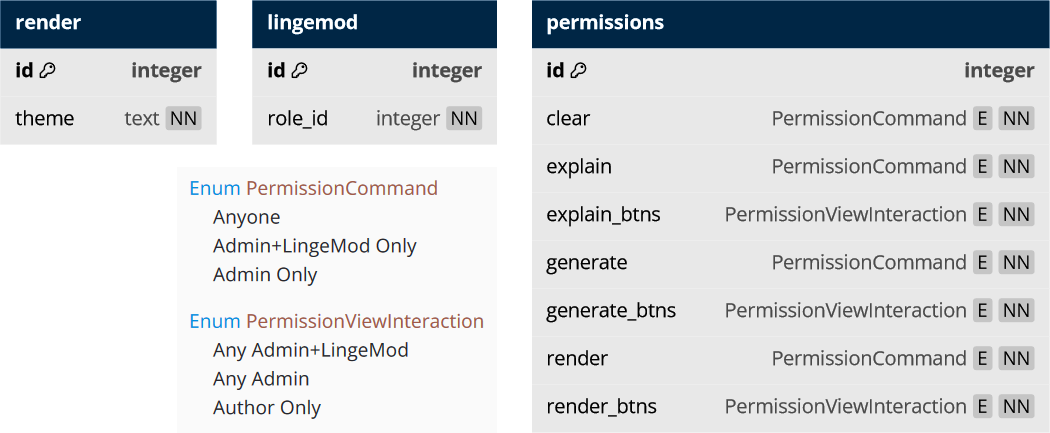
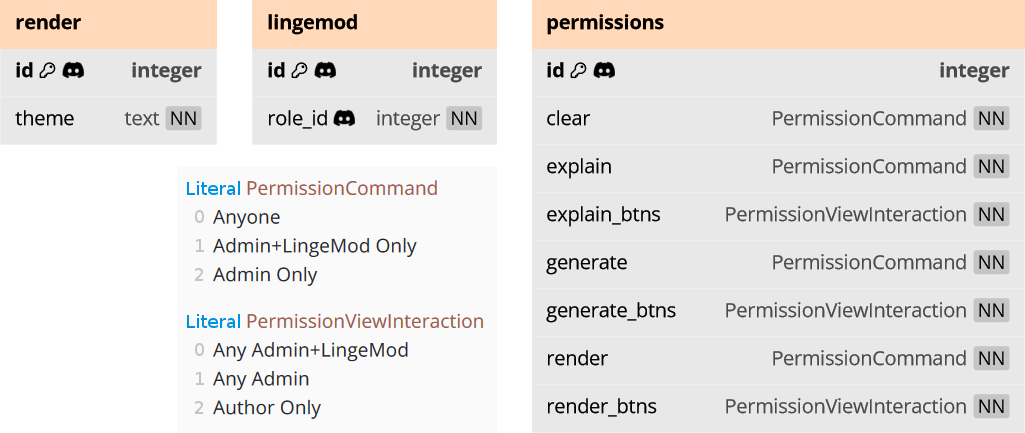
(thesis wip 27)

diff --git a/Thesis/document.tex b/Thesis/document.tex
@@ -73,12 +73,14 @@
 		\textbf{DMs} & Direct Messages, přímé zprávy \\
 		\textbf{HTML} & Hypertext Markup Language, značkovací jazyk \\
 		\textbf{HTTPS} & Hypertext Transfer Protocol Secure, protokol pro zabezpečenou komunikaci po počítačové síti \\
+		\textbf{ID} & identifikace, identifikátor \\
 		\textbf{JDA} & Java Discord API, knihovna pro tvorbu Discord botů v jazyce Java \\
 		\textbf{JSON} & JavaScript Object Notation, formát pro výměnu dat \\
 		\textbf{REST} & Representational State Transfer, architektura pro výměnu dat \\
 		\textbf{SDK} & Software Development Kit, sada nástrojů pro vývoj softwaru \\
-		\textbf{VoIP} & Voice over Internet Protocol, telefonie přes internetový protokol \\
+		\textbf{SQL} & Structured Query Language, dotazovací jazyk pro relační databáze \\
 		\textbf{UI} & User Interface, uživatelské rozhraní \\
+		\textbf{VoIP} & Voice over Internet Protocol, telefonie přes internetový protokol \\
 	\end{abbrList}
 	
 	% Začátek hlavního textu
@@ -297,7 +299,7 @@
 	
 	\chapter{Tvorba matematického Discord bota}
 	
-	Tato kapitola popisuje tvorbu matematického Discord bota, který se zaměřuje na výklad teorie a generování příkladů z lineární algebry. K výkladu této látky lze přistupovat s různou mírou obecnosti: Některé zdroje prezentují lineární algebru jako sadu postupů pro řešení určitých matematických úloh, jiné ji vykládají jako teorii vektorových prostorů a lineárních zobrazení \cite{lit_lingebra}. Bot byl vytvořen spíše pro prezentování informací z druhé zmíněné strany spektra, avšak jeho návrh obecně podporuje jakýkoliv typ matematických materiálů. Generované příklady se pak soustředí na základní výpočty s maticemi.
+	Tato kapitola popisuje tvorbu matematického Discord bota, který byl pojmenován \textit{LingeBot}. Zaměřuje se na výklad teorie a generování příkladů z lineární algebry. K výkladu této látky lze přistupovat s různou mírou obecnosti: Některé zdroje prezentují lineární algebru jako sadu postupů pro řešení určitých matematických úloh, jiné ji vykládají jako teorii vektorových prostorů a lineárních zobrazení \cite{lit_lingebra}. Bot byl vytvořen spíše pro prezentování informací z druhé zmíněné strany spektra, avšak jeho návrh obecně podporuje jakýkoliv typ matematických materiálů. Generované příklady se pak soustředí na základní výpočty s maticemi.
 	
 	Pro tvorbu bota byla zvolena knihovna discord.py zejména kvůli její početné komunitě a čitelnosti výsledného zdrojového kódu. Při volbě také hrála roli existence matematických knihoven pro jazyk Python (konkrétně Matplotlib, NumPy, SciPy a SymPy), které jsou zavedené a dobře zdokumentované.
 		
@@ -337,7 +339,7 @@
 	
 	\textit{Administrátor} je typ oprávnění, které je součástí Discordu a uživatelům ho lze přidělit v rámci role. Pokud není taková role nikomu přidělena, pak je majitel serveru jediným uživatelem s těmito právy (a zároveň jediným, kdo může tuto roli někomu dalšímu přidělit).
 	
-	Za ,,moderátora bota`` je považován uživatel, kterému byla (administrátorem) přidělena speciální role. Tato role je vytvořena navrhovaným botem po jeho připojení na daný server. Díky této roli lze uživatele bez administrátorských práv rozdělit na dvě skupiny a pouze jedné z nich povolit používání určitých příkazů.
+	Za ,,moderátora bota`` je považován uživatel, kterému byla administrátorem přidělena speciální role s názvem \textit{LingeMod}. Tato role je vytvořena navrhovaným botem po jeho připojení na nový server. Díky moderátorské roli lze uživatele bez administrátorských práv rozdělit na dvě skupiny a pouze jedné z nich povolit používání určitých příkazů.
 	
 	Nastavení může vypadat např. následovně: Kdokoliv může vykreslovat matematické výrazy pomocí \verb*|/render|, pouze moderátoři bota (a tedy i administrátoři, kteří jim jsou nadřazeni) mohou generovat příklady pomocí \verb*|/generate| a pouze administrátoři mohou používat výklad teorie příkazem \verb*|/explain|.
 	
@@ -349,7 +351,7 @@
 	
 	Dalším přidaným příkazem, který byl inspirován prostředím terminálu, je \verb*|/clear|. Po jeho zadání bot do chatu odešle  prázdnou zprávu, která je tak dlouhá, aby se všechny předchozí zprávy již nevešly na obrazovku. To může být užitečné pro zpřehlednění konverzace v daném textovém kanále.
 	
-	U bota je možné změnit barevné schéma vykreslovaných matematických výrazů. Konkrétně jsou k dispozici čtyři kombinace barvy písma a pozadí u odeslaných obrázků. Barevné schéma je vázané na server a může být přenastaveno jeho administrátorem. Všechny botem odeslané obrázky na určitý server budou respektovat jeho nastavené schéma (nezávisle na uživateli příkazu). Uživatel si totiž může také vybrat barevné schéma v přímých zprávách s navrhovaným botem. Toto schéma je použito u zpráv reagujících na příkazy spuštěné v přímé konverzaci a zároveň u zpráv přeposlaných z jakéhokoliv serveru pomocí tlačítka \textit{Odeslat do DMs}.
+	U bota je možné změnit barevné schéma vykreslovaných matematických výrazů. Konkrétně jsou k dispozici čtyři kombinace barvy písma a pozadí u odeslaných obrázků. Barevné schéma je vázané na server a může být přenastaveno jeho administrátorem. Všechny botem odeslané obrázky na určitý server budou respektovat jeho nastavené schéma nezávisle na uživateli příkazu. Uživatel si totiž může nastavit barevné schéma pro konverzaci s botem v přímých zprávách. To je použito u zpráv reagujících na příkazy spuštěné v přímé konverzaci a zároveň u zpráv přeposlaných z jakéhokoliv serveru pomocí tlačítka \textit{Odeslat do DMs}.
 	
 	\section{Implementace}
 	
@@ -482,10 +484,20 @@
 	\begin{figure}[ht]
 		\centering
 		\includegraphics[width=\textwidth]{img/Database}
-		\caption{DB}
+		\caption{Databáze}
 	\end{figure}
 	
-	% Databáze a render theme
+	Požadavky bota na databázi nejsou vysoké. Je potřeba ukládat nastavení barevného schématu pro vykreslování matematických výrazů, pokud jej uživatel nebo administrátor změní. Dále je pro každý server, na kterém se bot nachází, ukládán identifikátor moderátorské role LingeMod. Pokud by bot detekoval roli pomocí jejího názvu a role by byla přejmenována, přestala by pak fungovat moderace. Poslední tabulka uchovává nastavení oprávnění pro jednotlivé servery.
+	
+	Pro takovýto účel byla zvolena databáze SQLite. Mnoho neoficiálních tutoriálů pro tvorbu Discord botů používá jako databázi přímý zápis a čtení ze souborů JSON. Tento způsob je nevhodný, protože není zaručena žádná bezpečnost transakcí a veškerá režie je zanechána na programátorovi. Pokus o implementaci vlastní režie by vedl k naprogramování vlastního databázového systému, proto je vhodnější obrátit se na již hotová a ověřená řešení. SQLite je embedded databáze, která je pro potřeby tohoto bota dostačující a kterou jazyk Python nativně podporuje.
+	
+	Identifikátory serverů, rolí a uživatelů jsou spravovány na straně Discordu. Každá funkce v knihovně discord.py, která reaguje na událost jako např. zadání příkazu uživatelem, má jako první vstupní parametr objekt typu interakce (\textit{discord.Interaction}), ze kterého lze zjistit ID daného uživatele a serveru, kde byl příkaz zadán. 
+	
+	Pokud např. uživatel zadá příkaz pro změnu barevného schématu, tak je ID daného serveru získáno z objektu interakce a v tabulce je k němu přiřazen název zvoleného schématu. Pokud je příkaz zadán v přímých zprávách, pak je místo ID serveru, které v tomto kontextu neexistuje, použito ID uživatele. Všechny Discord identifikátory by měly být unikátní, a proto nejsou potřeba dvě tabulky pro schémata serveru a schémata uživatelů. Při použití příkazu \verb*|/render| je pak z interakce opět zjištěno ID, pomocí něhož se v databázi dohledá nastavené barevné schéma, které se použije pro vykreslení.
+	
+	Identifikátory jsou tedy podle potřeby získávány z Discord API. V případě tohoto bota proto může být databáze jednoduchá a tabulky mezi sebou nemusí mít žádné vazby. Definice databáze ze strany SQL obsahuje pouze názvy tabulek a jejich sloupců. Veškerá logika se odehrává na straně programu v jazyce Python.
+	
+	% LITERAL
 	
 	\subsection{Implementace moderace}
 	% Setup

diff --git a/Bot/utils/db_io.py b/Bot/utils/db_io.py
@@ -27,12 +27,14 @@ cursor = connection.cursor()
 
 
 def is_id_in_table(iid: int, table_name: str) -> bool:
+    """:return: Existuje záznam s ID `iid` v tabulce `table_name`?"""
     cursor.execute(f"SELECT EXISTS(SELECT 1 FROM {table_name} WHERE id=?)", (iid,))
     exists = cursor.fetchone()
     return exists[0] == 1
 
 
 def render_set_theme(iid: int, theme: ThemeLiteral) -> None:
+    """Nastavit barevné schéma `theme` pro ID `iid`."""
     exists = is_id_in_table(iid, "render")
     if exists:
         cursor.execute("UPDATE render SET theme=? WHERE id=?", (theme, iid))
@@ -42,6 +44,7 @@ def render_set_theme(iid: int, theme: ThemeLiteral) -> None:
 
 
 def render_get_theme(iid: int) -> ThemeLiteral:
+    """:return: Barevné schéma pro ID `iid`."""
     exists = is_id_in_table(iid, "render")
     if exists:
         cursor.execute("SELECT theme FROM render WHERE id=?", (iid,))
@@ -50,6 +53,7 @@ def render_get_theme(iid: int) -> ThemeLiteral:
 
 
 def lingemod_reset(gid: int, role_id: int) -> None:
+    """Nastavit roli s ID `role_id` jako novou LingeMod roli pro server s ID `gid`."""
     if is_id_in_table(gid, "lingemod"):
         cursor.execute("DELETE FROM lingemod WHERE id=?", (gid,))
     cursor.execute("INSERT INTO lingemod VALUES (?, ?)", (gid, role_id))
@@ -76,11 +80,13 @@ def permissions_get_all(gid: int) -> Any:
 
 
 def permissions_get_one(gid: int, action: ActionLiteral) -> int:
+    """:return: Číslo konkrétního oprávnění pro akci `action` na serveru s ID `gid`."""
     cursor.execute(f"SELECT {action} FROM permissions WHERE id=?", (gid,))
     return cursor.fetchone()[0]
 
 
 def permissions_set(gid: int, action: ActionLiteral, permission: int) -> None:
+    """Nastavit oprávnění pro akci `action` na hodnotu `permission` pro server s ID `gid`."""
     if not is_id_in_table(gid, "permissions"):
         cursor.execute("INSERT INTO permissions VALUES (?, ?, ?, ?, ?, ?, ?, ?)",
                        (gid,) + tuple(DEFAULT_PERMISSIONS.values()))
@@ -89,5 +95,6 @@ def permissions_set(gid: int, action: ActionLiteral, permission: int) -> None:
 
 
 def purge_table(table_name: str) -> None:
+    """Smazat všechny hodnoty z tabulky `table_name`."""
     cursor.execute(f"DELETE FROM {table_name}")
     connection.commit()
